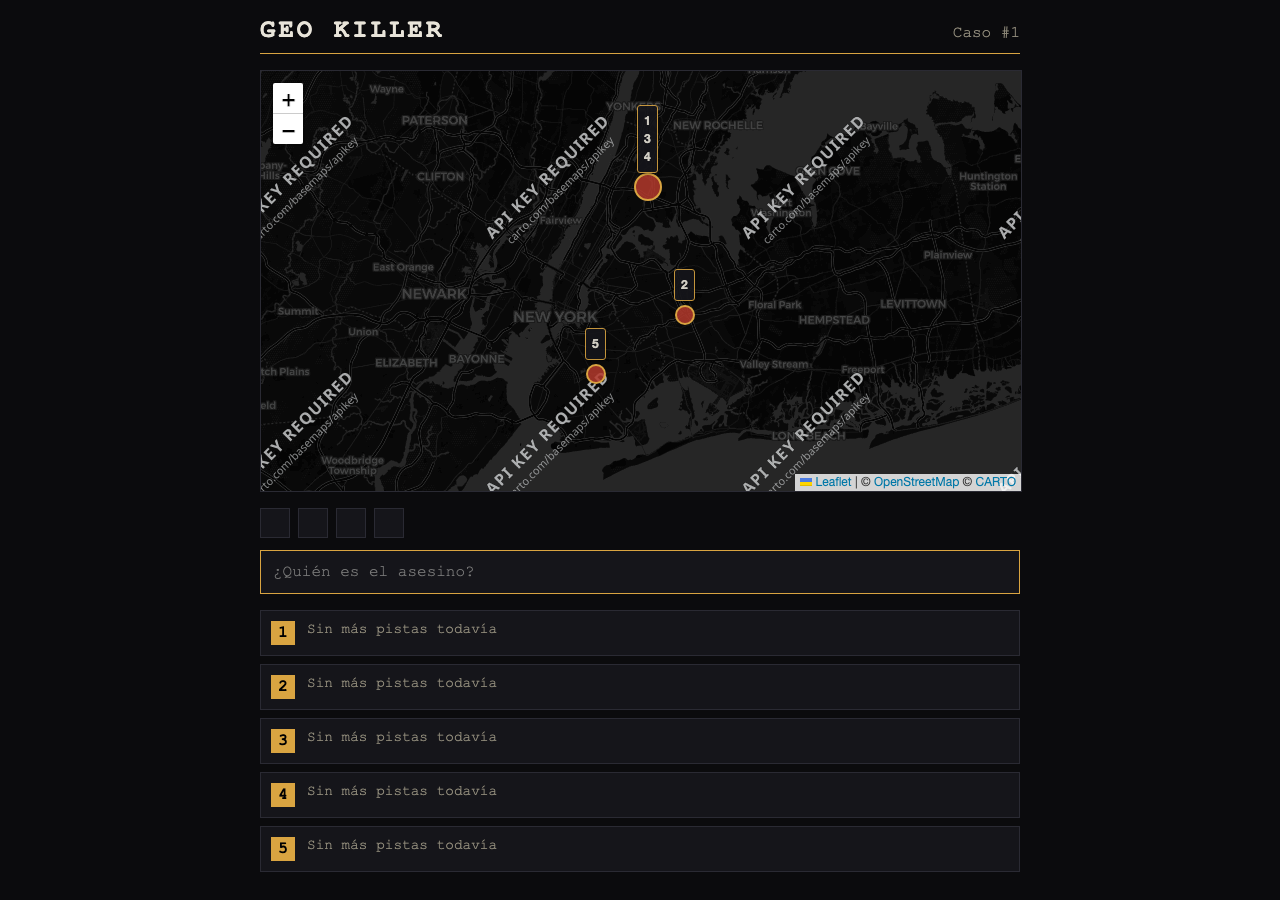
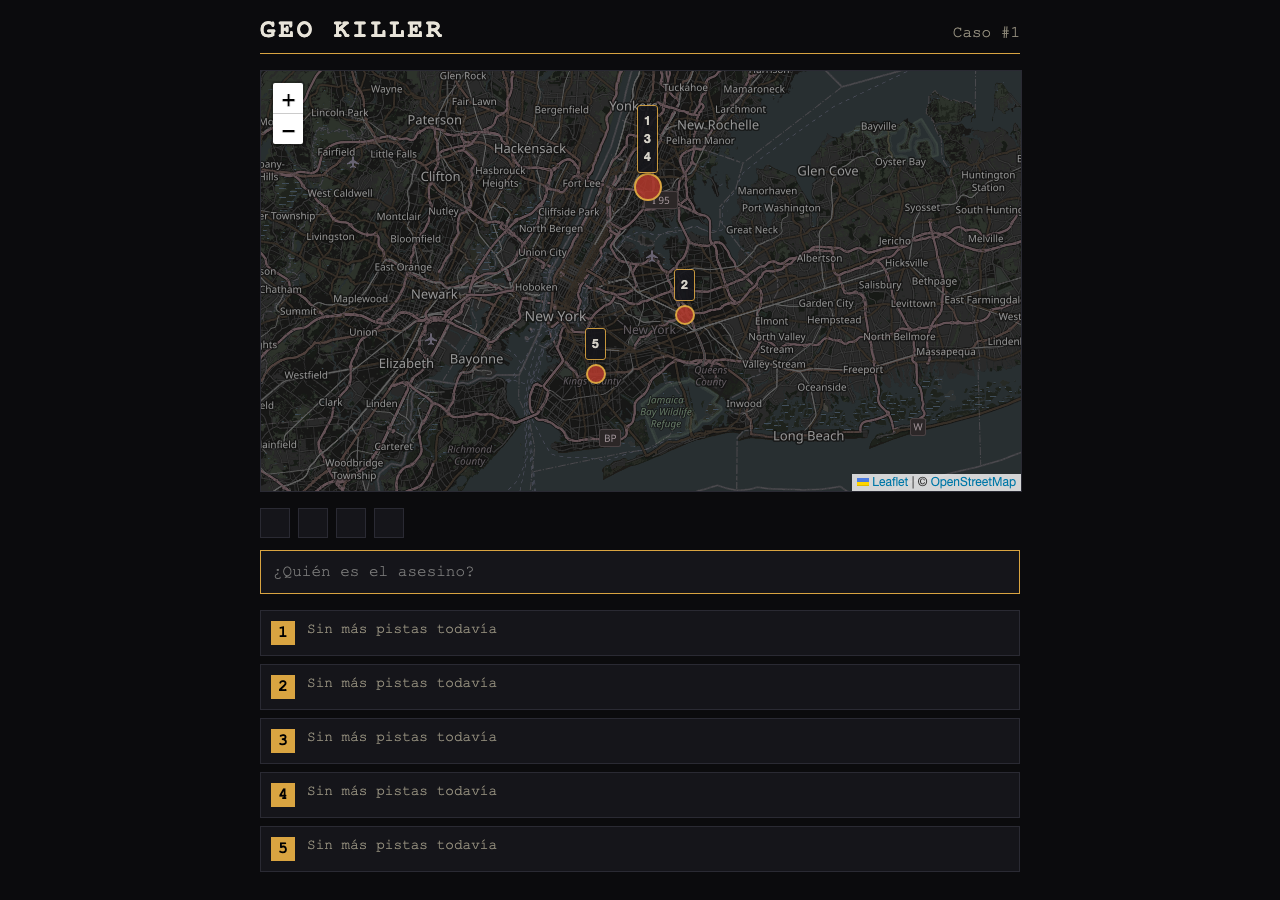
fix(ui): tiles de OpenStreetMap sin clave con filtro oscuro

Changed region(s): [[0.1875, 0.0622, 0.8125, 0.56]]

diff --git a/src/components/CaseMap.tsx b/src/components/CaseMap.tsx
@@ -7,8 +7,8 @@ import { boundsFor } from './mapBounds'
 import { groupByCoordinates } from './markerGroups'
 import { formatDate } from './ClueList'
 
-const TILES = 'https://{s}.basemaps.cartocdn.com/dark_all/{z}/{x}/{y}{r}.png'
-const ATTRIBUTION = '&copy; <a href="https://www.openstreetmap.org/copyright">OpenStreetMap</a> &copy; <a href="https://carto.com/attributions">CARTO</a>'
+const TILES = 'https://tile.openstreetmap.org/{z}/{x}/{y}.png'
+const ATTRIBUTION = '&copy; <a href="https://www.openstreetmap.org/copyright">OpenStreetMap</a>'
 
 function FitBounds({ murders }: { murders: Murder[] }) {
   const map = useMap()

diff --git a/src/styles.css b/src/styles.css
@@ -38,6 +38,7 @@ body {
 .guess-alias { color: var(--muted); font-size: 0.85rem; }
 
 .case-map { width: 100%; height: 420px; border: 1px solid var(--line); background: #000; }
+.case-map .leaflet-tile-pane { filter: invert(1) hue-rotate(180deg) brightness(0.7) contrast(0.9) saturate(0.25); }
 .marker-tip { background: var(--panel) !important; color: var(--text) !important; border: 1px solid var(--accent) !important; font-family: inherit; }
 .marker-tip::before { display: none; }
 
